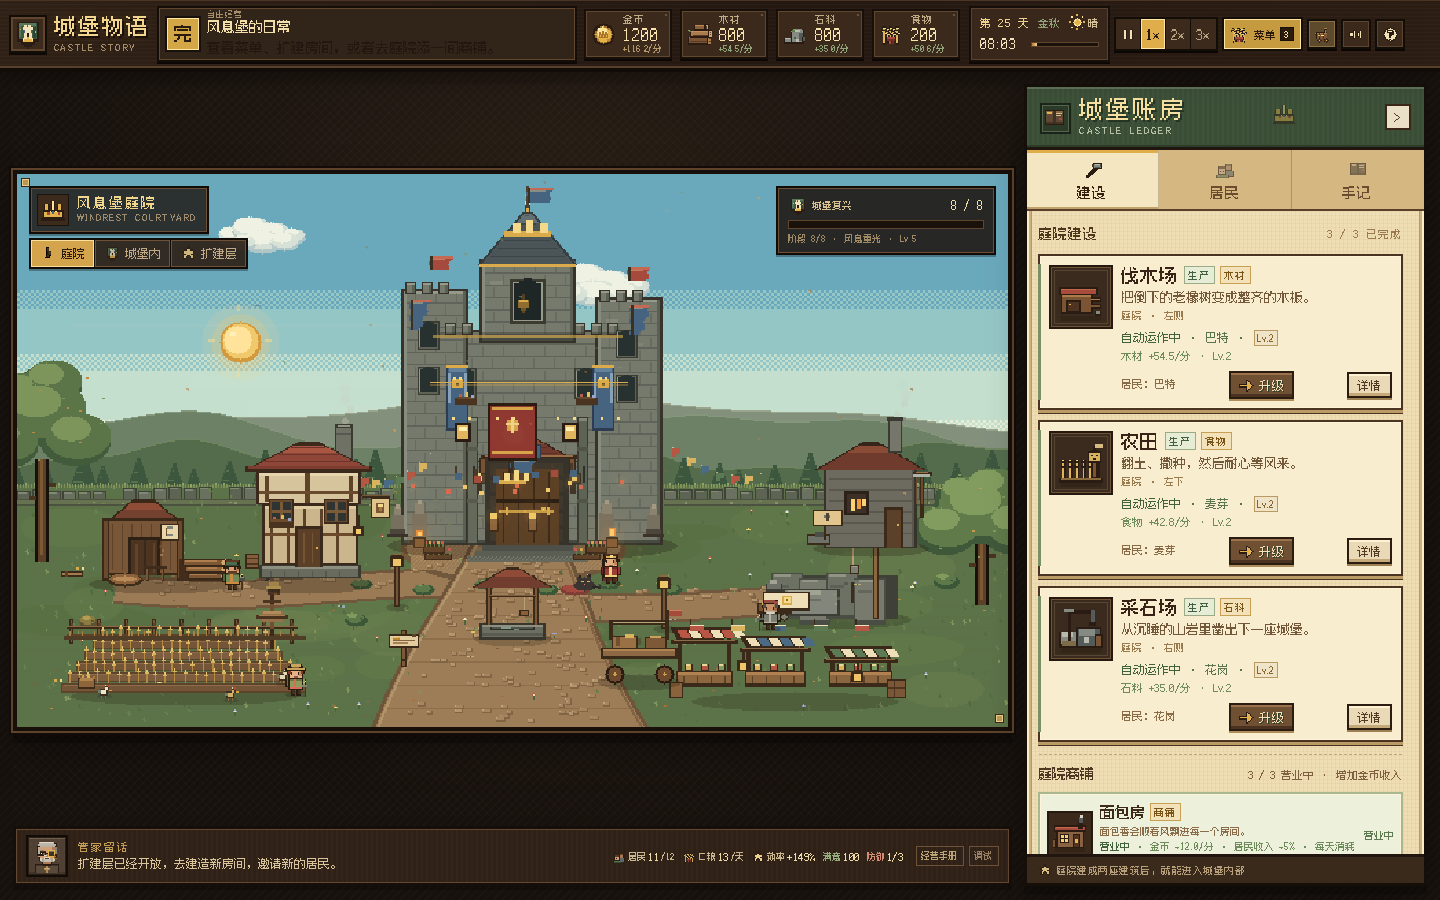
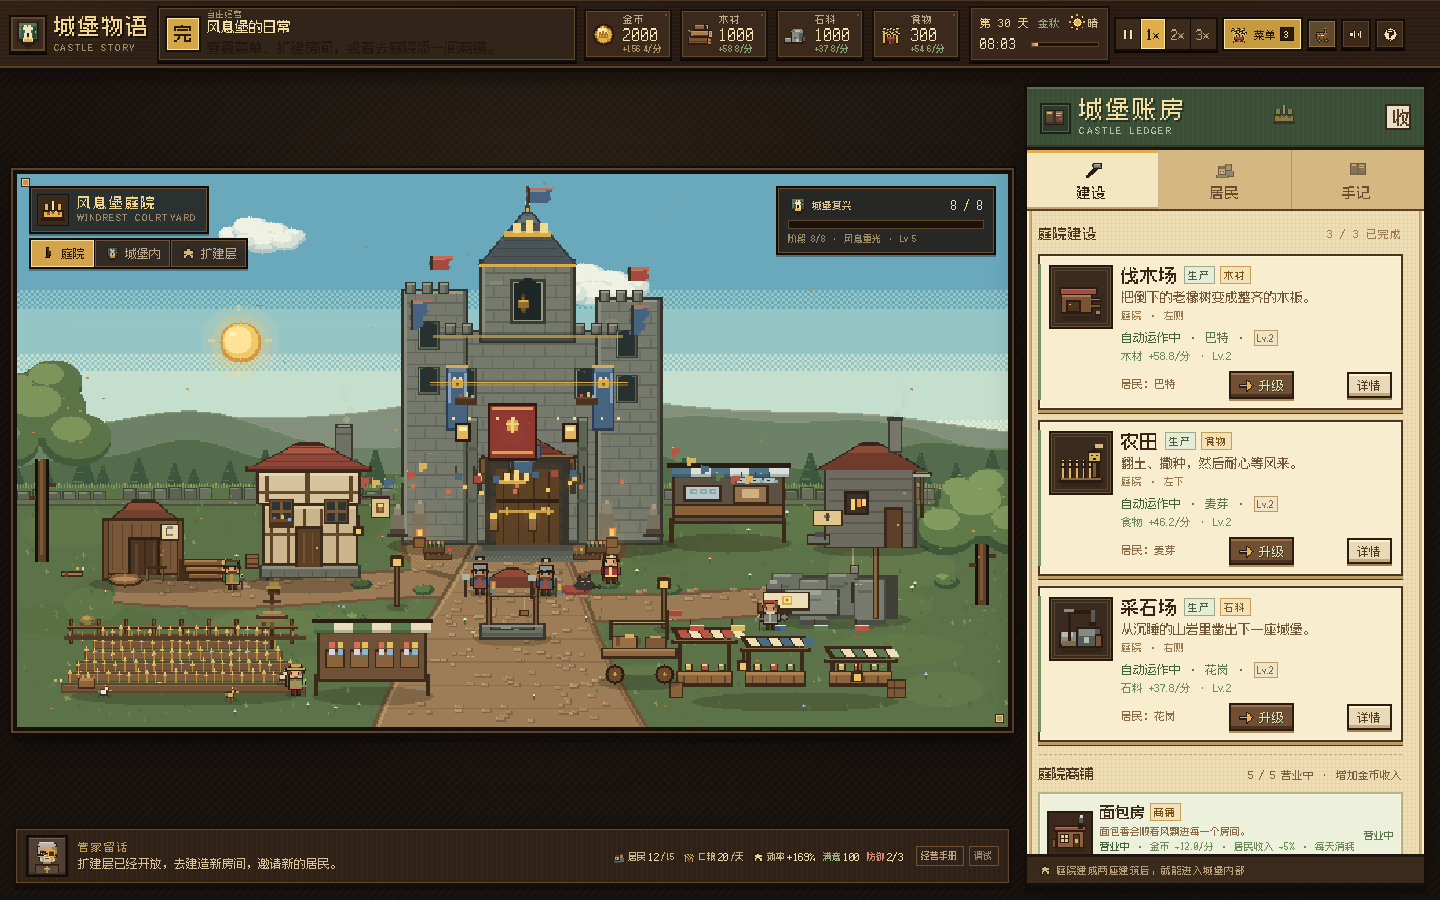
新增职业专属房、房间拆除、更多集市与户外士兵巡逻

Changed region(s): [[0.4688, 0.4978, 0.5625, 0.5911], [0.2188, 0.6844, 0.3125, 0.7778], [0.3125, 0.6222, 0.4062, 0.6844]]

diff --git a/styles.css b/styles.css
@@ -11,7 +11,7 @@
 
 @font-face {
   font-family: "FusionPixelExtra";
[2 lines of base64/hex data omitted]
   font-weight: 400;
   font-style: normal;
   font-display: swap;
@@ -2767,3 +2767,7 @@ button { font-size: 14px; }
 .upgrade-next b { display: block; font-weight: 400; font-size: 12px; color: #4a3621; }
 .upgrade-next span { display: block; margin-top: 2px; font-size: 10px; color: #6e8b5c; line-height: 1.4; }
 .upgrade-next .cost-row { margin-top: 4px; }
+
+/* 拆除确认 */
+.demolish-warning { padding: 8px; margin: 4px 0 8px; background: #f5ded4; border: 1px solid #c58a76; color: #8a3f31; font-size: 11px; line-height: 1.5; }
+.demolish-warning b { display: block; font-weight: 400; color: #7d2e25; }

diff --git a/js/game.js b/js/game.js
@@ -155,7 +155,7 @@
       interiorUnlocked: false,
       expansionUnlocked: false,
       menus: [],
-      shops: { bakery: { status: "locked" }, smithy: { status: "locked" }, general: { status: "locked" } },
+      shops: { bakery: { status: "locked" }, smithy: { status: "locked" }, general: { status: "locked" }, fishmonger: { status: "locked" }, flower: { status: "locked" } },
       expansionFloors: [{}],
       expansionFloorCount: 1,
       currentFloor: 0,
@@ -972,6 +972,8 @@
       else if (shop.unlock === "allrooms") unlocked = ["kitchen","study","barracks","storeroom","chapel"].every(function (id) {
         return s.buildings[id].status === "built";
       });
+      else if (shop.unlock === "stage5") unlocked = D.countBuilt(s) >= 5;
+      else if (shop.unlock === "floor2") unlocked = !!s.expansionUnlocked && (s.expansionFloorCount || 1) >= 2;
       st.status = unlocked ? "available" : "locked";
     });
   }
@@ -2236,8 +2238,8 @@
       '<div class="help-item"><img src="' + I.icon("food") + '" alt=""><div><strong>④ 吃饭 → 效率</strong><p>每天黎明每位居民吃 1 份食物。吃饱时全员效率 +10%，饿肚子时效率 -30%。厨房会减少 1 份口粮需求。</p></div></div>' +
       '<div class="help-item"><img src="' + I.icon("crest") + '" alt=""><div><strong>⑤ 两座建筑 → 城堡内部</strong><p>庭院建成两座建筑后，点击场景左上角的「城堡内」，修复厨房、书房、兵营、账房和礼拜堂。每修好一个房间就会有一位新居民加入。</p></div></div>' +
       '<div class="help-item"><img src="' + I.icon("food") + '" alt=""><div><strong>⑥ 厨房菜单 → 居民收入</strong><p>厨房修好后，点击顶栏金色「菜单」按钮购买菜肴。菜谱会随居民数量逐步解锁；每道菜提高居民金币收入，同时每天额外消耗 1–3 份食物。</p></div></div>' +
-      '<div class="help-item"><img src="' + I.icon("coin") + '" alt=""><div><strong>⑦ 庭院商铺 → 额外收入</strong><p>修复厨房、兵营和全部房间后，会陆续开放面包房、铁匠铺和杂货铺。商铺会持续产生金币，也会提高居民收入。</p></div></div>' +
-      '<div class="help-item"><img src="' + I.icon("sparkle") + '" alt=""><div><strong>⑧ 扩建层 → 房间、职业与配比</strong><p>修复所有房间后开放扩建层。每层 10 个不同尺寸的位置，房间可重复、位置自选。居民需要民居，士兵需要厕所+武器库+士兵营房，大臣需要会议室+书房+大臣办公室，传教士需要小礼拜堂+静修室。点击已建房间可以升级，升级会改变属性和外观。</p></div></div>' +
+      '<div class="help-item"><img src="' + I.icon("coin") + '" alt=""><div><strong>⑦ 庭院商铺 → 额外收入</strong><p>面包房、铁匠铺、杂货铺之外，还会解锁鱼摊（城堡阶段 5）和花摊（扩建第 2 层）。商铺持续产金币、提高居民收入，也各自增加 1 份/天食物消耗。</p></div></div>' +
+      '<div class="help-item"><img src="' + I.icon("sparkle") + '" alt=""><div><strong>⑧ 扩建层 → 房间、职业与配比</strong><p>修复所有房间后开放扩建层。每层 10 个不同尺寸的位置，房间可重复、位置自选。居民需要民居，士兵需要厕所+武器库+士兵营房，大臣需要会议室+书房+大臣办公室，传教士需要小礼拜堂+静修室。点击已建房间可以升级或拆除，升级会改变属性和外观；拆除会返还一半材料，并可能让失去房间条件的客人离开。</p></div></div>' +
       '<div class="help-item"><img src="' + I.icon("bunting") + '" alt=""><div><strong>⑨ 全部修复 → 丰收庆典</strong><p>庭院 3 个区域 + 城堡内 5 个区域全部完成，就能举办庆典。庆典时所有居民会聚到城堡门外。</p></div></div>' +
       '<div class="help-item"><img src="' + I.icon("cart") + '" alt=""><div><strong>⑩ 行商买入页</strong><p>行商现在有「卖出 / 买入」两页。木材、石料、食物都能买，但每种物资每天有购买上限，黎明刷新。卖出价格受金铃和账房等级影响。</p></div></div>' +
       '<div class="help-item"><img src="' + I.icon("arrow") + '" alt=""><div><strong>⑪ 扩建与升级</strong><p>伐木场、农田、采石场可以扩建提高产速；城堡房间也可以升级，增强效果与满意度。顶栏进度会显示城堡等级与威望，外观会随等级变得更华丽。</p></div></div>' +
@@ -2730,6 +2732,98 @@
     return I.icon(type.icon);
   }
 
+  function expansionRoomRefund(type) {
+    return {
+      wood: Math.floor((type.cost.wood || 0) * 0.5),
+      stone: Math.floor((type.cost.stone || 0) * 0.5),
+      gold: Math.floor((type.cost.gold || 0) * 0.5)
+    };
+  }
+
+  function openDemolishConfirm(slotId) {
+    const room = currentFloorRooms()[slotId];
+    if (!room) return;
+    const type = D.EXPANSION_ROOMS.filter(function (r) { return r.id === room.type; })[0];
+    if (!type) return;
+    const floor = state.currentFloor;
+    const remainingTypes = {};
+    D.EXPANSION_SLOTS.forEach(function (slot) {
+      const r = currentFloorRooms()[slot.id];
+      if (r && slot.id !== slotId) remainingTypes[r.type] = true;
+    });
+    const willLeave = guestsOnFloor(floor).filter(function (g) {
+      const klass = guestClass(g.klass || "resident");
+      return !klass.requirements.every(function (req) { return !!remainingTypes[req]; });
+    });
+    const bedsAfter = floorRoomsDetailed(floor).reduce(function (n, e) {
+      return n + (e.slot.id === slotId ? 0 : roomCapacity(e.type, e.room));
+    }, 0);
+    const excess = Math.max(0, guestsOnFloor(floor).length - willLeave.length - bedsAfter);
+    const refund = expansionRoomRefund(type);
+    openModal(
+      modalHead("hammer", "扩建层 · 拆除", "拆除「" + type.name + "」？", "会退还一半建造材料，但房间等级和装饰会消失。") +
+      '<div class="modal-body"><div class="demolish-warning">' +
+      (willLeave.length ? "<b>" + willLeave.length + " 位客人会因失去职业房间而离开。</b>" : "") +
+      (excess > 0 ? "<b>还有 " + excess + " 位客人会因床位不足离开。</b>" : "") +
+      (!willLeave.length && excess <= 0 ? "当前没有客人会因此离开。" : "") +
+      "</div>" +
+      '<div class="requirement"><img src="' + I.icon("coin") + '" alt="">拆除返还：' + costTextOnly(refund) + "</div>" +
+      '<div class="modal-actions"><button class="btn btn-ghost" data-action="close-modal">保留房间</button>' +
+      '<button class="btn btn-danger" data-action="demolish-confirm" data-slot="' + slotId + '">确认拆除</button></div></div>'
+    );
+  }
+
+  function costTextOnly(cost) {
+    return RES_ORDER.filter(function (k) { return cost[k]; }).map(function (k) {
+      return D.RESOURCES[k].name + " +" + cost[k];
+    }).join(" · ") || "无";
+  }
+
+  function demolishExpansionRoom(slotId) {
+    const rooms = currentFloorRooms();
+    const room = rooms[slotId];
+    if (!room) return;
+    const type = D.EXPANSION_ROOMS.filter(function (r) { return r.id === room.type; })[0];
+    if (!type) return;
+    const refund = expansionRoomRefund(type);
+    rooms[slotId] = null;
+    Object.keys(refund).forEach(function (k) {
+      if (refund[k]) state.resources[k] = (state.resources[k] || 0) + refund[k];
+    });
+    const floor = state.currentFloor;
+    // 先移除因职业房间缺失而不满足条件的客人
+    const keep = [];
+    const leaving = [];
+    guestsOnFloor(floor).forEach(function (g) {
+      const klass = guestClass(g.klass || "resident");
+      const met = klass.requirements.every(function (req) { return floorHasType(floor, req); });
+      if (met) keep.push(g); else leaving.push(g);
+    });
+    // 再按剩余床位移除多余客人
+    let remaining = keep;
+    const beds = floorBeds(floor);
+    if (remaining.length > beds) {
+      leaving = leaving.concat(remaining.slice(beds));
+      remaining = remaining.slice(0, beds);
+    }
+    const keepIds = {};
+    remaining.forEach(function (g) { keepIds[g.id] = true; });
+    const leavingIds = {};
+    leaving.forEach(function (g) { leavingIds[g.id] = true; });
+    state.genericResidents = state.genericResidents.filter(function (g) {
+      return !leavingIds[g.id] || (g.floor || 0) !== floor;
+    });
+    leaving.forEach(function (g) {
+      addLog("拆除「" + type.name + "」后，「" + g.name + "」离开了城堡。", "bad");
+    });
+    addLog("第 " + (floor + 1) + " 层拆除了「" + type.name + "」，返还 " + costTextOnly(refund) + "。", "info");
+    toast("已拆除「" + type.name + "」。" + (leaving.length ? " " + leaving.length + " 位客人离开。" : ""), "neutral", "hammer");
+    closeModal(true);
+    ui.guideSig = "";
+    renderAll(true);
+    saveState();
+  }
+
   function openExpansionSlotModal(slotId) {
     if (!state.expansionUnlocked) { toast("修复所有房间后，扩建层才会开放。", "bad", "lock"); return; }
     const slot = D.EXPANSION_SLOTS.filter(function (s) { return s.id === slotId; })[0];
@@ -2755,6 +2849,7 @@
           '<div class="cost-row">' + costHTML(cost, true) + "</div></div>" : '<div class="floor-full-note">这间房已达到 Lv.3 上限。</div>') +
         '<div class="modal-actions"><span class="modal-note">' + (lv < 3 && !afford ? "升级材料不足：" + missingCostsText(cost) : "") + "</span>" +
         '<button class="btn btn-ghost" data-action="close-modal">关闭</button>' +
+        '<button class="btn btn-danger" data-action="demolish-open" data-slot="' + slotId + '">拆除</button>' +
         (lv < 3 ? '<button class="btn btn-gold" data-action="upgrade-expansion" data-slot="' + slotId + '"' + (afford ? "" : " disabled") + '><img src="' + I.icon("arrow") + '" alt="">升级房间</button>' : "") +
         "</div></div>"
       );
@@ -3076,6 +3171,8 @@
       else if (action === "expansion-slot") openExpansionSlotModal(el.dataset.slot);
       else if (action === "build-expansion") buildExpansionRoom(el.dataset.slot, el.dataset.type);
       else if (action === "upgrade-expansion") upgradeExpansionRoom(el.dataset.slot);
+      else if (action === "demolish-open") openDemolishConfirm(el.dataset.slot);
+      else if (action === "demolish-confirm") demolishExpansionRoom(el.dataset.slot);
       else if (action === "invite") inviteResident();
       else if (action === "go-recruit") { ui.tab = "build"; switchView("expansion"); }
       else if (action === "recruit-guest") inviteGuest(el.dataset.class);

diff --git a/js/scene.js b/js/scene.js
@@ -1952,6 +1952,26 @@ window.CastleScene = (function () {
     });
   }
 
+  function drawOutdoorSoldiers(t) {
+    if (!stateRef || !stateRef.genericResidents) return;
+    const soldiers = stateRef.genericResidents.filter(function (r) { return (r.klass || "resident") === "soldier"; });
+    if (!soldiers.length) return;
+    const count = Math.min(4, soldiers.length);
+    for (let i = 0; i < count; i++) {
+      let x, y;
+      if (i < 2) {
+        x = i === 0 ? 336 : 384;
+        y = 308 + Math.sin(t * 1.1 + i * 2) * 1;
+      } else {
+        const p = (t * 10 + i * 42) % 170;
+        x = 250 + p;
+        y = 358 + Math.sin(t * 0.8 + i) * 1;
+      }
+      shadow(ctx, x, y, 6, 2, 0.16);
+      drawGuestSprite(x, y, soldiers[i], t, i * 2.4);
+    }
+  }
+
   function drawCat(x, y, t) {
     shadow(ctx, x, y - 1, 10, 3, 0.2);
     // 小垫子
@@ -3566,6 +3586,66 @@ window.CastleScene = (function () {
     R(ctx, 588, 248, 2, 6, "#4f4534");
   }
 
+  function drawFishStall(t) {
+    const x = 470, baseY = 270;
+    shadow(ctx, 516, baseY, 46, 7, 0.24);
+    R(ctx, 476, 218, 82, 38, "#3b2a1a");
+    R(ctx, 478, 220, 78, 34, "#5d5144");
+    // 蓝白条纹遮阳棚
+    for (let i = 0; i < 6; i++) {
+      R(ctx, 476 + i * 14, 212, 15, 10, i % 2 ? "#d8e0dc" : "#4f7488");
+      R(ctx, 476 + i * 14, 220, 15, 3, "rgba(25,18,12,.22)");
+    }
+    R(ctx, 472, 212, 90, 3, "#2b1c12");
+    // 柜台与鱼箱
+    R(ctx, 476, 242, 82, 10, "#3b2a1a");
+    R(ctx, 478, 243, 78, 7, "#8a623b");
+    R(ctx, 484, 228, 28, 12, "#3b2a1a");
+    R(ctx, 486, 229, 24, 9, "#b8c9cc");
+    for (let i = 0; i < 3; i++) {
+      R(ctx, 489 + i * 7, 231, 5, 3, "#8fa6ab");
+      R(ctx, 491 + i * 7, 232, 2, 1, "#e7d7b4");
+    }
+    R(ctx, 520, 228, 26, 14, "#3b2a1a");
+    R(ctx, 522, 229, 22, 11, "#95734c");
+    R(ctx, 527, 231, 12, 6, "#d0b083");
+    // 挂鱼
+    for (let i = 0; i < 3; i++) {
+      const fx = 526 + i * 10;
+      R(ctx, fx, 218, 1, 5, "#4b3725");
+      R(ctx, fx - 3, 223, 8, 3, "#b2c1c1");
+      R(ctx, fx + 4, 224, 3, 2, "#8fa6ab");
+      R(ctx, fx - 1, 224, 2, 1, "#2b2119");
+    }
+    R(ctx, 474, 252, 3, 18, "#3b2a1a");
+    R(ctx, 556, 252, 3, 18, "#3b2a1a");
+  }
+
+  function drawFlowerStall(t) {
+    const x = 214, baseY = 382;
+    shadow(ctx, 258, baseY, 44, 7, 0.22);
+    R(ctx, 218, 334, 80, 38, "#3b2a1a");
+    R(ctx, 220, 336, 76, 34, "#6d5238");
+    // 绿色遮阳棚
+    for (let i = 0; i < 6; i++) {
+      R(ctx, 216 + i * 14, 326, 15, 10, i % 2 ? "#e8ddbd" : "#5c7d4f");
+      R(ctx, 216 + i * 14, 334, 15, 3, "rgba(25,18,12,.22)");
+    }
+    R(ctx, 214, 326, 88, 3, "#2b1c12");
+    // 花桶
+    for (let i = 0; i < 4; i++) {
+      const px = 224 + i * 18;
+      R(ctx, px, 348, 14, 14, "#3b2a1a");
+      R(ctx, px + 1, 350, 12, 11, "#8a623b");
+      for (let j = 0; j < 4; j++) {
+        R(ctx, px + 3 + (j % 2) * 6, 343 + Math.floor(j / 2) * 5, 4, 4, ["#d96c5c", "#e6c05c", "#d9d1e2", "#8db1d1"][j]);
+        R(ctx, px + 4 + (j % 2) * 6, 347 + Math.floor(j / 2) * 5, 1, 3, "#5d7c4a");
+      }
+    }
+    R(ctx, 216, 366, 3, 16, "#3b2a1a");
+    R(ctx, 297, 366, 3, 16, "#3b2a1a");
+  }
+
   function drawShopSign(x, baseY, t) {
     shadow(ctx, x, baseY, 12, 3, 0.2);
     R(ctx, x - 1, baseY - 30, 3, 30, "#3b2a1a");
@@ -3596,6 +3676,10 @@ window.CastleScene = (function () {
         drawMarket(t, true, false, lights);
       } else if (shop.id === "smithy") {
         drawSmithy(t, lights);
+      } else if (shop.id === "fishmonger") {
+        drawFishStall(t);
+      } else if (shop.id === "flower") {
+        drawFlowerStall(t);
       }
     });
   }
@@ -3898,6 +3982,7 @@ window.CastleScene = (function () {
     drawTradeCart(452, 372, time);
     drawSmokeAndParticles(time);
     drawWorkers(time, lightsForFrame);
+    drawOutdoorSoldiers(time);
 
     // 全城张灯结彩
     if (stage >= 4) {

diff --git a/js/data.js b/js/data.js
@@ -402,6 +402,20 @@ window.GameData = (function () {
       unlock: "allrooms", unlockText: "修复所有房间后开放",
       desc: "货架上什么都有，包括你昨天卖掉的那把勺子。",
       flavor: "金铃说，一家好的杂货铺应该让客人空手进来，满载出去。"
+    },
+    {
+      id: "fishmonger", name: "鱼摊", icon: "market", plot: { x: 470, y: 210, w: 98, h: 60, baseY: 270 },
+      cost: { wood: 40, stone: 20, gold: 120 }, income: 0.28, residentBonus: 0.05,
+      unlock: "stage5", unlockText: "城堡阶段 5 开放",
+      desc: "清晨的河鱼，带着水草和冰块的味道。",
+      flavor: "鱼摊老板说，最好的鱼要留给最早来的人。"
+    },
+    {
+      id: "flower", name: "花摊", icon: "farm", plot: { x: 214, y: 318, w: 88, h: 64, baseY: 382 },
+      cost: { wood: 30, stone: 15, gold: 90 }, income: 0.22, residentBonus: 0.03,
+      unlock: "floor2", unlockText: "扩建到第 2 层开放",
+      desc: "花摊把颜色带进石头城堡。",
+      flavor: "每束花都附赠一句不合时宜的祝福。"
     }
   ];
 

diff --git a/README.md b/README.md
@@ -54,8 +54,9 @@ python3 -m http.server 8765
 - 客人的招募条件按“当前楼层”的房间计算，因此每层都需要做配比规划。
 - 角色房：民居（居民）、士兵营房（士兵）、大臣办公室（大臣）、静修室（传教士）。
 
-### 4. 防御、偷窃、传教士
+### 4. 防御、偷窃、传教士与户外巡逻
 
+- 士兵会穿着头盔、带着武器在城堡门外站岗和沿路巡逻，不再是只出现在房间里的小图标。
 - 士兵与武器库提供防御。
 - 居民越多，需要的士兵越多；士兵不足时，隔壁村可能在黎明偷走木材、石料、食物和金币。
 - 没有传教士时，居民产能 -20%；招募传教士后恢复。
@@ -69,11 +70,12 @@ python3 -m http.server 8765
 - 每道菜每天都会额外消耗食物（1–3 份/天），越丰富的菜单食物压力越大；这些消耗已计入每日口粮。
 - 菜谱增加居民收入和满意度。
 
-### 6. 房间升级与视觉变化
+### 6. 房间升级、拆除与视觉变化
 
 - 点击扩建层任何已建房间，弹窗里会出现「升级房间」按钮。
 - 每个房间最高 Lv.3；升级提升床位、收入、生产、防御或满意度。
 - 升级后房间会出现金边、额外烛光、地毯和挂饰，等级越高越精致。
+- 房间支持「拆除」：确认后返还一半建造材料；如果拆除职业房或床位后不再满足客人条件，相关客人会离开。
 
 ### 7. 楼层导航与可收起侧边栏
 
@@ -81,7 +83,16 @@ python3 -m http.server 8765
 - 建设页不再重复放楼层按钮。
 - 账房右上角可以收起侧边栏；收起后场景自动放大，右侧留一个「账房」按钮重新展开。
 
-### 8. 调试模式
+### 8. 更多集市与户外士兵
+
+- 庭院商铺从 3 间增加到 5 间：
+  - 面包房、铁匠铺、杂货铺；
+  - 鱼摊：城堡阶段 5 开放；
+  - 花摊：扩建到第 2 层开放。
+- 新商铺有独立摊位外观、收入和居民加成，也会增加每日食物消耗。
+- 士兵会在户外城门前站岗，部分沿前庭巡逻，和室内职业活动形成呼应。
+
+### 9. 调试模式
 
 - 底部「调试」或按 `~` / `Ctrl+Shift+D`。
 - 金币与物资显示为「无限」，所有建造/升级/招募/购买都不扣资源。
